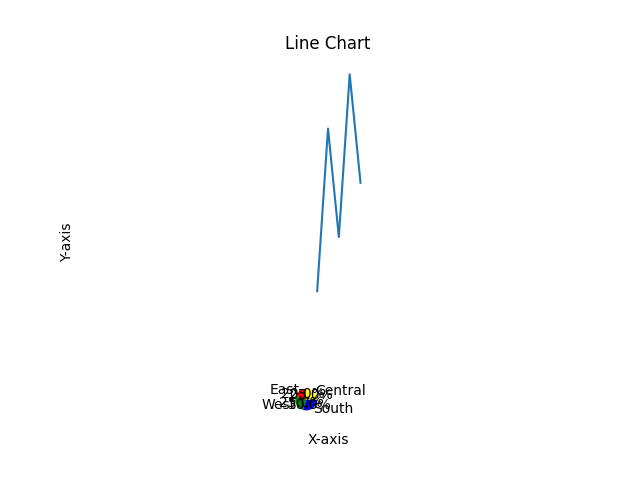
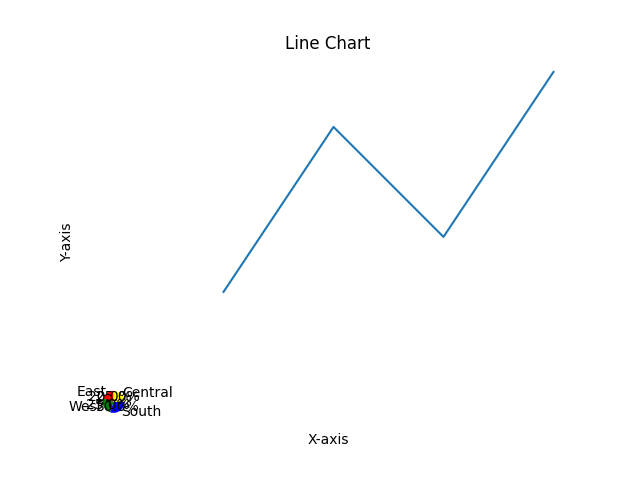
final commit

diff --git a/Task2/sales/views.py b/Task2/sales/views.py
@@ -29,7 +29,7 @@ matplotlib.interactive(False)
 matplotlib.pyplot.switch_backend('agg')
 threading.Thread(target=matplotlib.pyplot.ion()).start()
 
-@sync_to_async
+# @sync_to_async
 
 def generate_chart(request):
     labels = ['East', 'West', 'South', 'Central']
@@ -46,8 +46,8 @@ def generate_chart(request):
 
 
     # Data for the line chart
-    x = [1, 2, 3, 4, 5]
-    y = [10, 25, 15, 30, 20]
+    x = [10, 20, 30, 40]
+    y = [10, 25, 15, 30]
 
     # Generate the line chart
     plt.plot(x, y)
